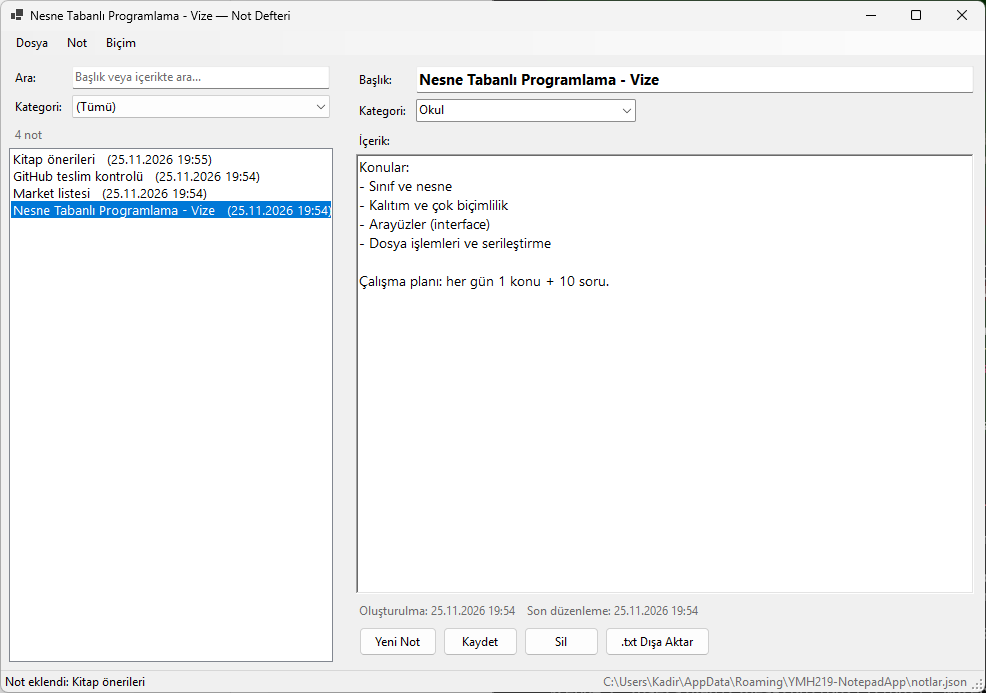
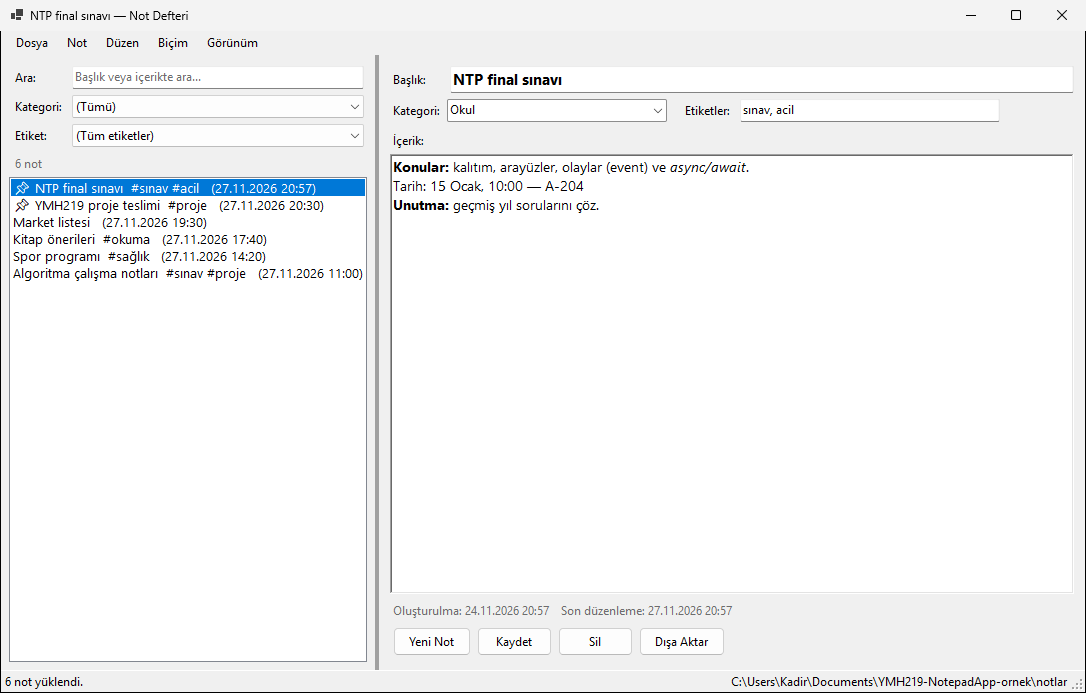
Ekran görüntülerini sabitleme, etiketler ve karanlık temayla yenile

diff --git a/README.md b/README.md
@@ -12,12 +12,12 @@ her açıldığında otomatik olarak geri yüklenir. Nesne Tabanlı Programlama 
 
 ## Ekran Görüntüleri
 
-| Not listesi ve düzenleyici | Yeniden açılış sonrası arama + kategori filtresi |
+| Açık tema — 📌 sabit notlar, `#etiket`ler, biçimli içerik | Karanlık tema — "sınav" etiket filtresi |
 |---|---|
-| ![Not listesi](docs/screenshots/01-not-listesi.png) | ![Arama ve filtre](docs/screenshots/02-arama-ve-kategori-filtresi.png) |
+| ![Not listesi](docs/screenshots/01-not-listesi.png) | ![Karanlık tema ve etiket filtresi](docs/screenshots/02-karanlik-tema-etiket-filtresi.png) |
 
-İkinci görüntü uygulama kapatılıp yeniden açıldıktan sonra alınmıştır; durum çubuğundaki
-"4 not yüklendi." mesajı notların dosyadan geri yüklendiğini gösterir.
+Durum çubuğundaki "6 not yüklendi." mesajı notların not klasöründen (her not ayrı `.json` dosyası) geri yüklendiğini gösterir.
+Sağ alttaki yol, `--veri` parametresiyle verilen not klasörüdür.
 
 ## Kullanılan Teknolojiler
 
@@ -138,4 +138,8 @@ sınıfındadır. `NotDefteri` her değişiklikte `Degisti` olayını tetikler, 
 Ayrıntılı açıklama için [KOD-REHBERI.md](KOD-REHBERI.md) dosyasına bakın.
 
 ## Bilinen Sınırlamalar / Geliştirme Notları
+
+- Çakışma algılama not düzeyindedir; aynı notun farklı paragraflarını iki pencerede değiştirmek de çakışma sayılır
+  (otomatik birleştirme yapılmaz, kullanıcı hangi sürümün kalacağını seçer).
+- Karanlık temada `ComboBox` açılır okları Windows'un standart çizimini kullanır.
 
